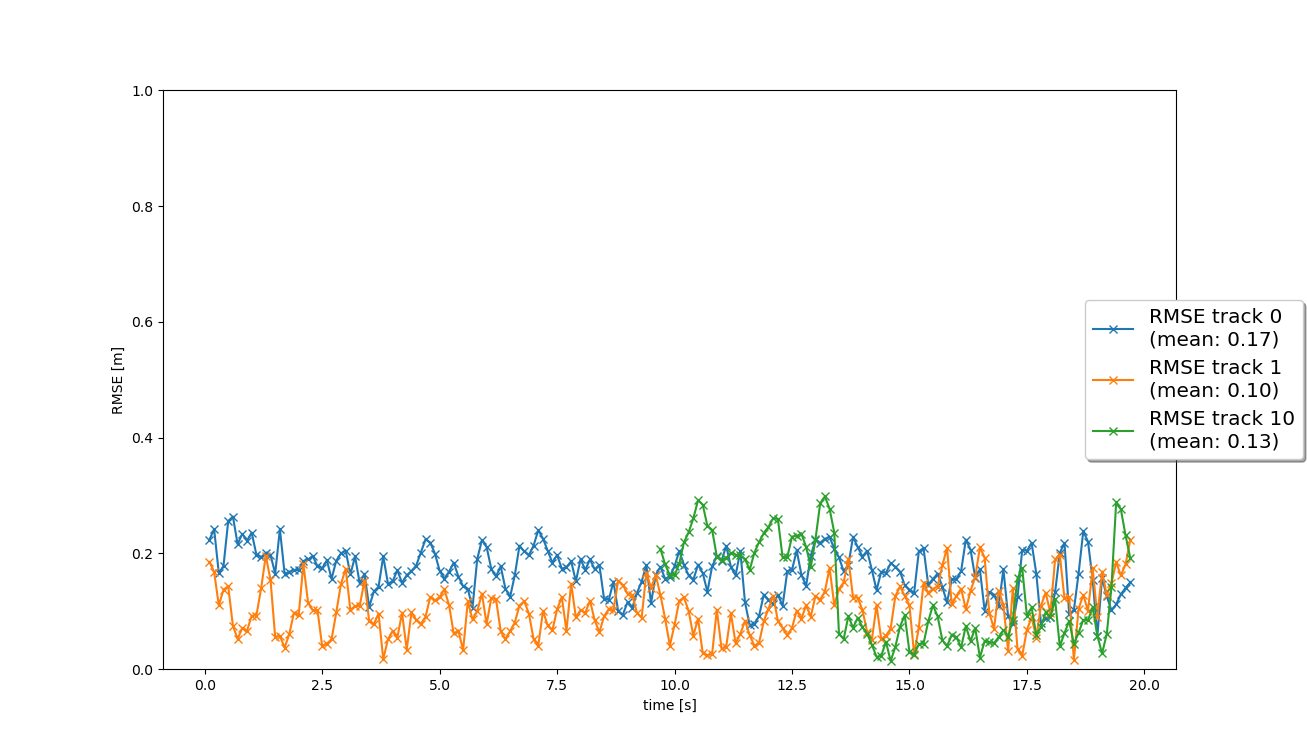
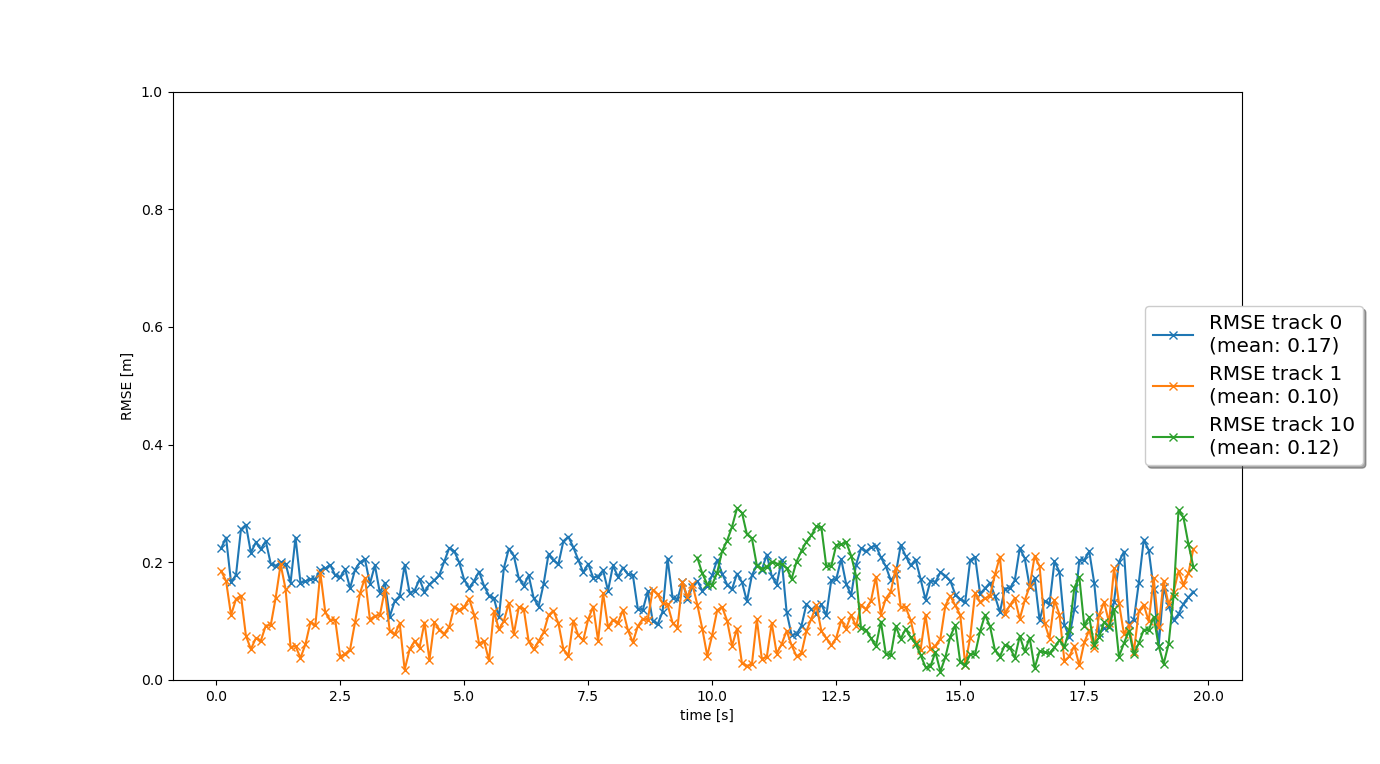
Fix MHD algorithm (missing math.sqrt) & generate new RMSE chart for multi-target tracking

diff --git a/student/association.py b/student/association.py
@@ -11,6 +11,8 @@
 #
 
 # imports
+import math
+
 import numpy as np
 from scipy.stats.distributions import chi2
 
@@ -109,7 +111,7 @@ class Association:
 
         gamma = KF.gamma(track, meas)
         S = KF.S(track, meas, H)
-        MHD = gamma.transpose() * np.linalg.inv(S) * gamma
+        MHD = math.sqrt(gamma.transpose() * np.linalg.inv(S) * gamma)
 
         return MHD
         
